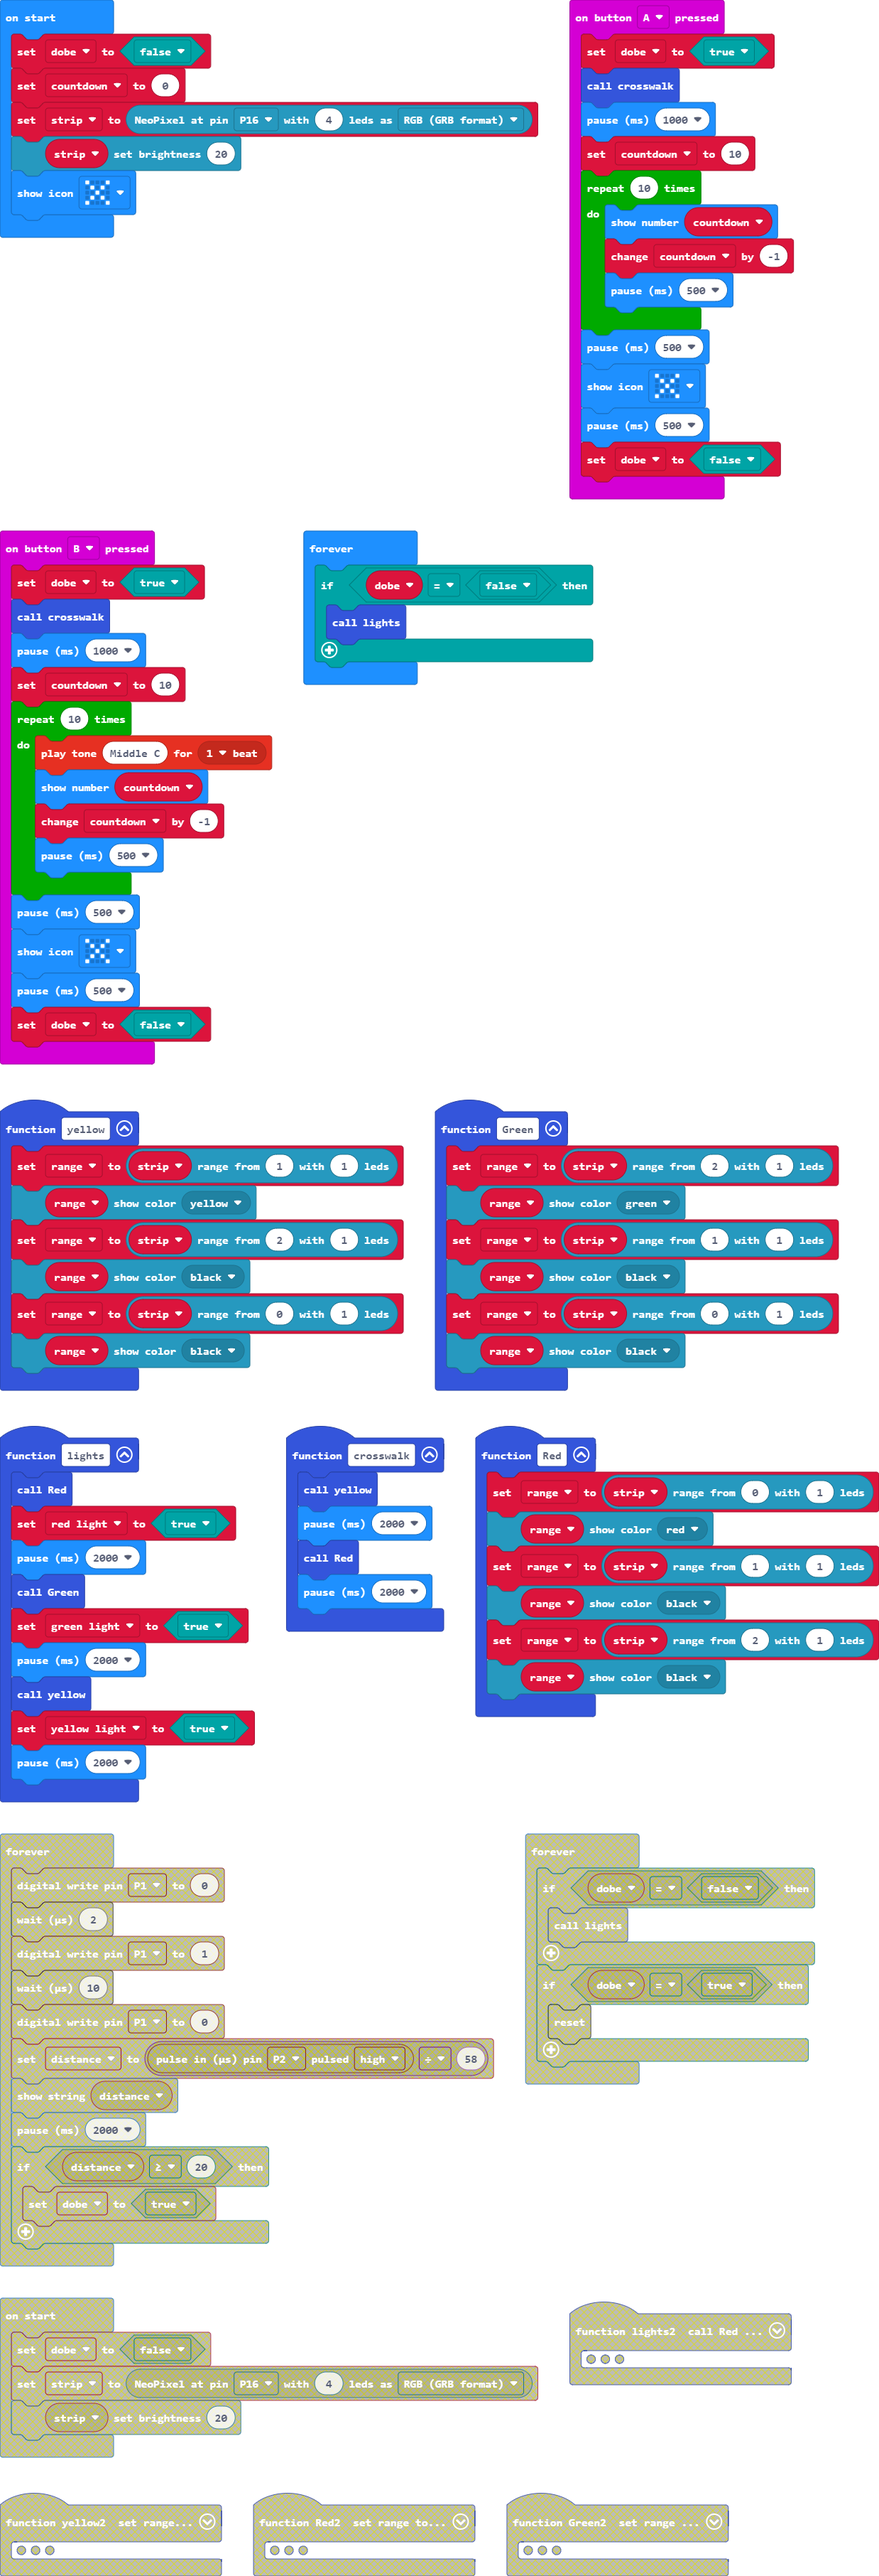
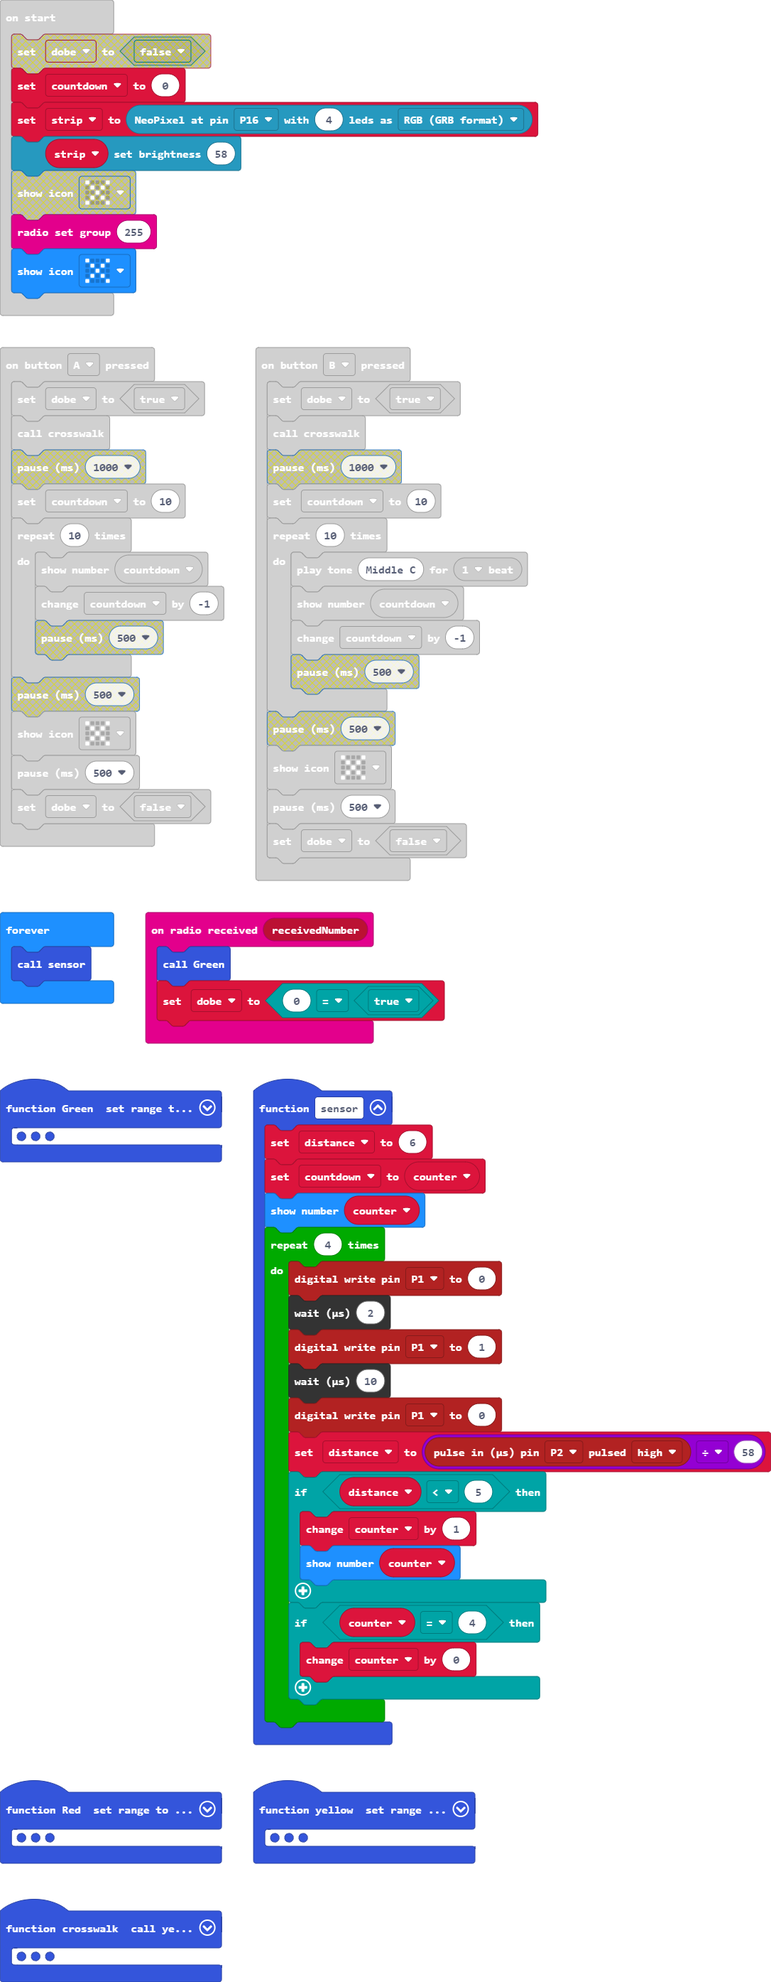
Update main.blocks, main.ts

diff --git a/main.ts b/main.ts
@@ -1,3 +1,7 @@
+radio.onReceivedNumber(function (receivedNumber) {
+    Green()
+    dobe = (0 as any) == (true as any)
+})
 function lights () {
     Red()
     red_light = true
@@ -11,21 +15,18 @@ function lights () {
 }
 function crosswalk () {
     yellow()
-    basic.pause(2000)
+    basic.pause(10000)
     Red()
-    basic.pause(2000)
+    basic.pause(10000)
 }
 input.onButtonPressed(Button.A, function () {
     dobe = true
     crosswalk()
-    basic.pause(1000)
     countdown = 10
     for (let index = 0; index < 10; index++) {
         basic.showNumber(countdown)
         countdown += -1
-        basic.pause(500)
     }
-    basic.pause(500)
     basic.showIcon(IconNames.No)
     basic.pause(500)
     dobe = false
@@ -33,15 +34,12 @@ input.onButtonPressed(Button.A, function () {
 input.onButtonPressed(Button.B, function () {
     dobe = true
     crosswalk()
-    basic.pause(1000)
     countdown = 10
     for (let index = 0; index < 10; index++) {
         music.playTone(262, music.beat(BeatFraction.Whole))
         basic.showNumber(countdown)
         countdown += -1
-        basic.pause(500)
     }
-    basic.pause(500)
     basic.showIcon(IconNames.No)
     basic.pause(500)
     dobe = false
@@ -53,6 +51,26 @@ function yellow () {
     range.showColor(neopixel.colors(NeoPixelColors.Black))
     range = strip.range(0, 1)
     range.showColor(neopixel.colors(NeoPixelColors.Black))
+}
+function sensor () {
+    distance = 6
+    countdown = counter
+    basic.showNumber(counter)
+    for (let index = 0; index < 4; index++) {
+        pins.digitalWritePin(DigitalPin.P1, 0)
+        control.waitMicros(2)
+        pins.digitalWritePin(DigitalPin.P1, 1)
+        control.waitMicros(10)
+        pins.digitalWritePin(DigitalPin.P1, 0)
+        distance = pins.pulseIn(DigitalPin.P2, PulseValue.High) / 58
+        if (distance < 5) {
+            counter += 1
+            basic.showNumber(counter)
+        }
+        if (counter == 4) {
+            counter += 0
+        }
+    }
 }
 function Green () {
     range = strip.range(2, 1)
@@ -70,20 +88,25 @@ function Red () {
     range = strip.range(2, 1)
     range.showColor(neopixel.colors(NeoPixelColors.Black))
 }
+let counter = 0
+let distance = 0
 let range: neopixel.Strip = null
 let yellow_light = false
 let green_light = false
 let red_light = false
+let dobe = false
 let strip: neopixel.Strip = null
 let countdown = 0
-let dobe = false
-dobe = false
+radio.setGroup(255)
+basic.showIcon(IconNames.No)
 countdown = 0
 strip = neopixel.create(DigitalPin.P16, 4, NeoPixelMode.RGB)
-strip.setBrightness(20)
-basic.showIcon(IconNames.No)
+strip.setBrightness(58)
 basic.forever(function () {
     if (dobe == false) {
         lights()
     }
+})
+basic.forever(function () {
+    sensor()
 })
